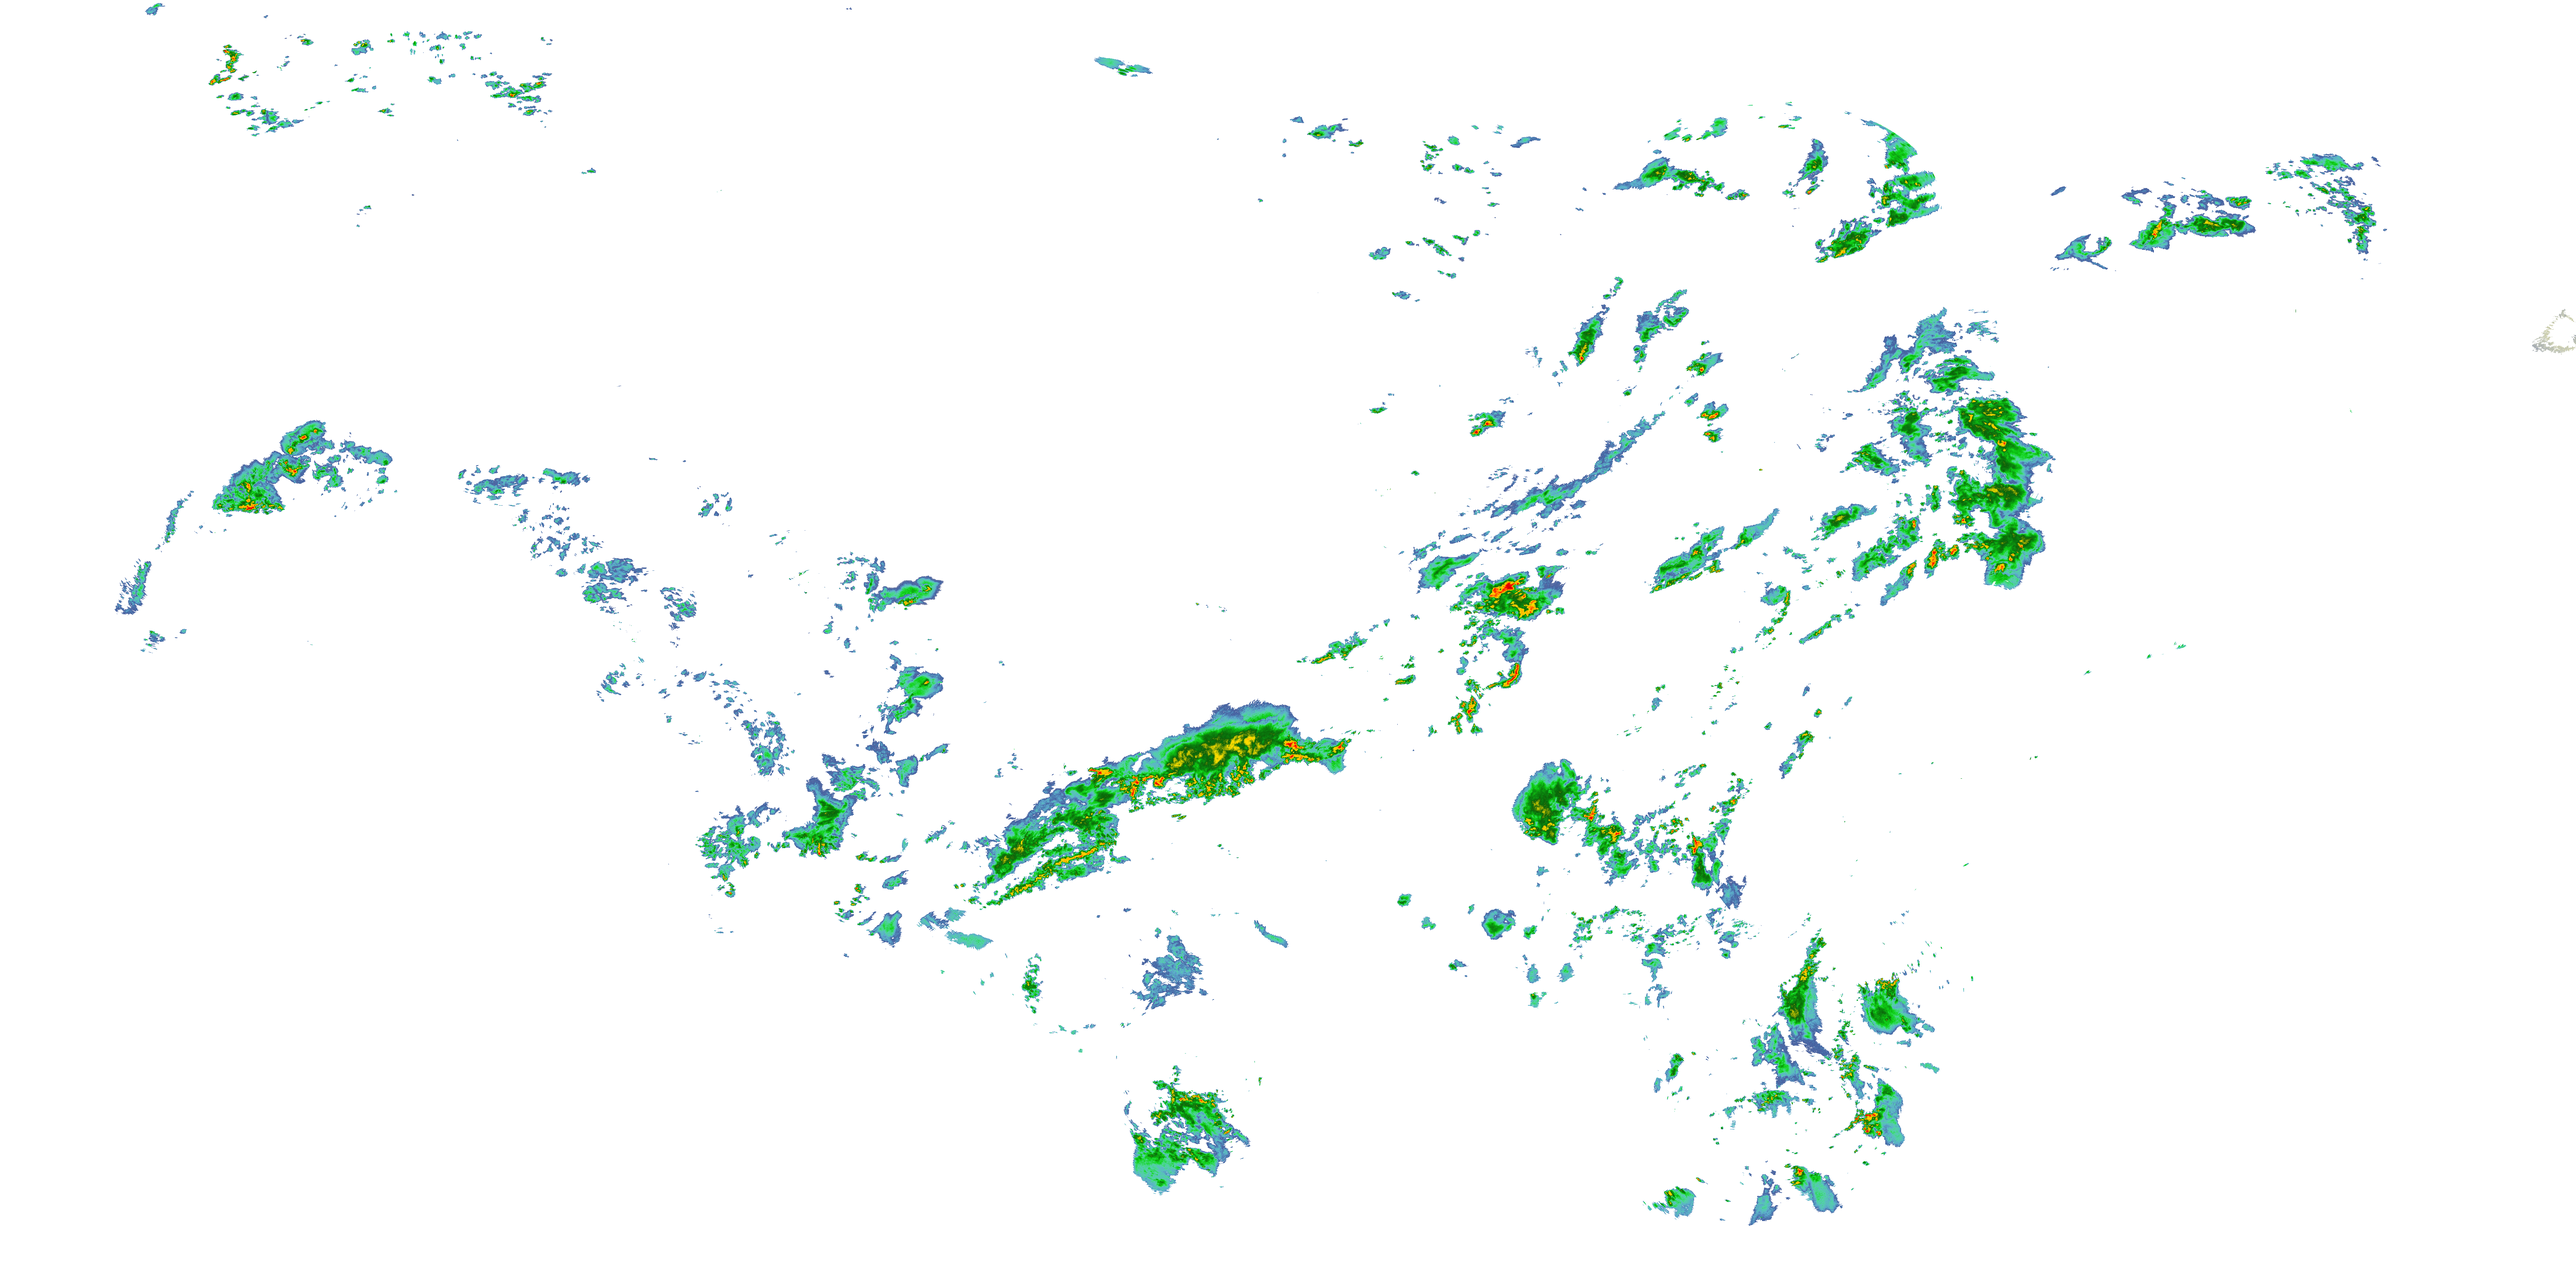
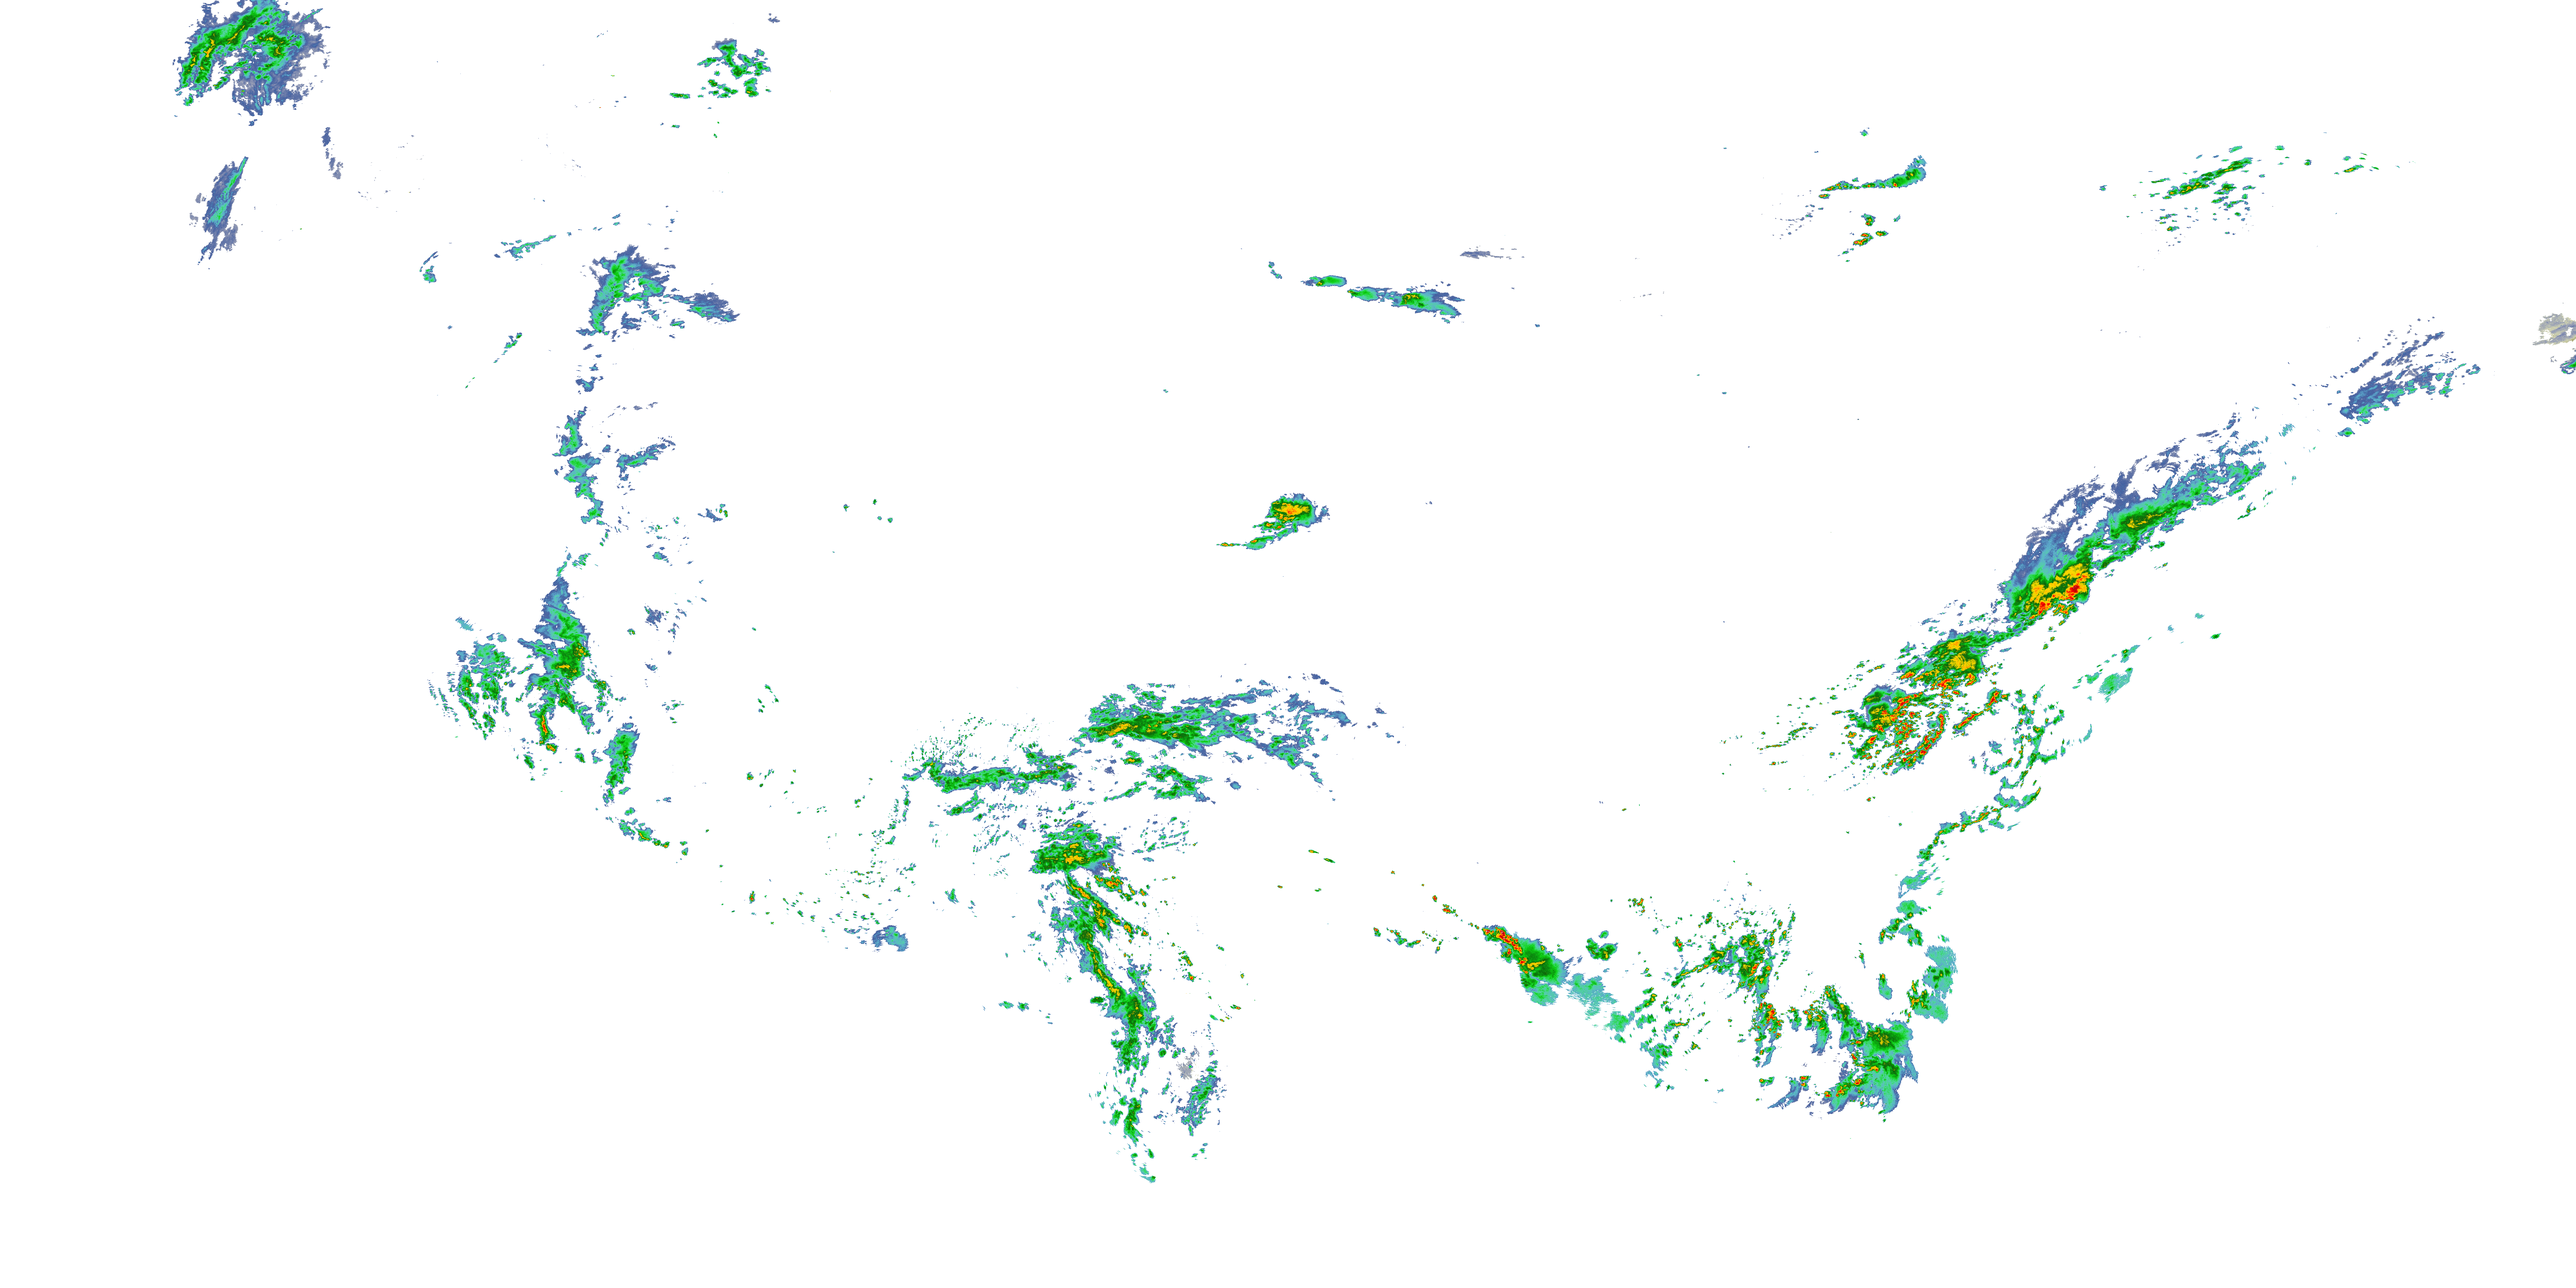
Modify to update radar images; Added python script for radar

diff --git a/index.html b/index.html
@@ -4,7 +4,7 @@
 <head>
   <meta charset="UTF-8">
   <meta name="viewport" content="width=device-width, initial-scale=1.0">
-  <title>Interactive World Map with Weather Alerts</title>
+  <title>Basic Weather Map</title>
   <link rel="stylesheet" href="https://unpkg.com/leaflet@1.9.4/dist/leaflet.css" />
   <style>
     body {
@@ -59,7 +59,6 @@
     // Initialize the map
     const map = L.map('map').setView([38, -100.0], 4.5); // Center on US, zoom level 4.5
 
-
     // Base layer: OpenStreetMap tiles
     const osm = L.tileLayer('https://{s}.tile.openstreetmap.org/{z}/{x}/{y}.png', {
       attribution: '© <a href="https://www.openstreetmap.org/copyright">OpenStreetMap</a> contributors',
@@ -68,13 +67,6 @@
 
     var radarUrl = 'https://mrms.ncep.noaa.gov/data/RIDGEII/CONUS/CompositeReflectivity/MRMS_CompositeReflectivity_00.00_20250701-144500.tiff';
     var radarBounds = [[20, -130], [50, -60]]; // CONUS bounds
-    L.imageOverlay('radar.png', radarBounds, {
-      opacity: 0.5,
-      interactive: true
-    }).addTo(map);
-
-
-
 
     // Layer 3: Weather alerts polygons
     let weatherPolygons = L.geoJSON(null, {
@@ -96,7 +88,7 @@
         if (feature.properties) {
           layer.bindPopup(`
             <b>${feature.properties.headline || 'No Headline'}</b><br>
-            <b>Event:</b> ${feature.properties.event || 'N/A'}<br>
+            <b>Event:</b> ${feature.properties.event || feature.properties.text}}<br>
             <b>Severity:</b> ${feature.properties.severity || 'N/A'}<br>
             <b>Description:</b> ${feature.properties.description || 'No Description'}<br>
             <b>Instruction:</b> ${feature.properties.instruction || 'No Instruction'}
@@ -170,10 +162,6 @@
           };
           // Add GeoJSON data to weatherPolygons layer
           weatherPolygons.addData(geoJsonData);
-          // Optionally zoom to the bounds of the weather polygons
-          if (polygonFeatures.length > 0) {
-            map.fitBounds(weatherPolygons.getBounds());
-          }
         })
         .catch(error => {
           console.error('There was a problem with the fetch operation:', error);
@@ -181,42 +169,18 @@
         });
     }
 
+
     function fetchCompositeRadar() {
-      weatherPolygons.clearLayers(); // Clear existing polygons
-      fetch('https://data2.weatherwise.app/mesoscale-discussions/USA.geojson?_=1751303510718', {
-        headers: {
-          'User-Agent': 'WeatherApp (your.email@example.com)' // Replace with your contact info
-        }
-      })
-        .then(response => {
-          if (!response.ok) {
-            throw new Error(`HTTP error: ${response.status}`);
-          }
-          return response.json();
-        })
-        .then(data => {
-          // Filter features with Polygon geometry
-          const polygonFeatures = data.features.filter(feature => feature.geometry && feature.geometry.type === "Polygon");
-          const geoJsonData = {
-            type: "FeatureCollection",
-            features: polygonFeatures
-          };
-          // Add GeoJSON data to weatherPolygons layer
-          weatherPolygons.addData(geoJsonData);
-          // Optionally zoom to the bounds of the weather polygons
-          if (polygonFeatures.length > 0) {
-            map.fitBounds(weatherPolygons.getBounds());
-          }
-        })
-        .catch(error => {
-          console.error('There was a problem with the fetch operation:', error);
-          alert('Failed to load weather alerts. Please try again later.');
-        });
+      L.imageOverlay('radar.png', radarBounds, {
+        opacity: 0.5,
+        interactive: true
+      }).addTo(map);
     }
 
     // Initial fetch of weather alerts
     fetchWeatherAlerts();
     fetchMesoDiscussion();
+    fetchCompositeRadar()
     // Add layers to map (default on)
     weatherPolygons.addTo(map);
 
@@ -230,6 +194,8 @@
 
     // Refresh button event listener
     document.getElementById('refreshWeather').addEventListener('click', fetchWeatherAlerts);
+    document.getElementById('refreshWeather').addEventListener('click', fetchMesoDiscussion);
+    document.getElementById('refreshWeather').addEventListener('click', fetchCompositeRadar);
   </script>
 </body>
 

diff --git a/test.py b/test.py
@@ -1,0 +1,39 @@
+import requests
+import gzip
+import io
+from PIL import Image
+from bs4 import BeautifulSoup
+import time
+
+html_raw = requests.get('https://mrms.ncep.noaa.gov/RIDGEII/L2/CONUS/CREF_QCD/').text
+
+soup = BeautifulSoup(html_raw, 'html.parser')
+
+tableData = soup.find('table')
+
+links = tableData.find_all('a')
+links = links[len(links)-1:len(links)]
+i=0
+for link in links:
+    url = 'https://mrms.ncep.noaa.gov/RIDGEII/L2/CONUS/CREF_QCD/'+link.get('href')
+    print(url)
+
+    response = requests.get(url)
+    if response.status_code != 200:
+        raise Exception(f"Failed to fetch file: {response.status_code}")
+
+    # Step 2: Extract the TIFF file from the gzip content
+    gzip_bytes = io.BytesIO(response.content)
+    with gzip.GzipFile(fileobj=gzip_bytes, mode='rb') as gz:
+        tiff_data = gz.read()
+
+    # Step 3: Convert TIFF to PNG
+    # Load the TIFF data into a PIL Image object
+    tiff_io = io.BytesIO(tiff_data)
+    image = Image.open(tiff_io)
+
+    # Save the image as PNG
+    output_path = f"radar.png"
+    image.save(output_path, format="PNG")
+    i+=1
+
